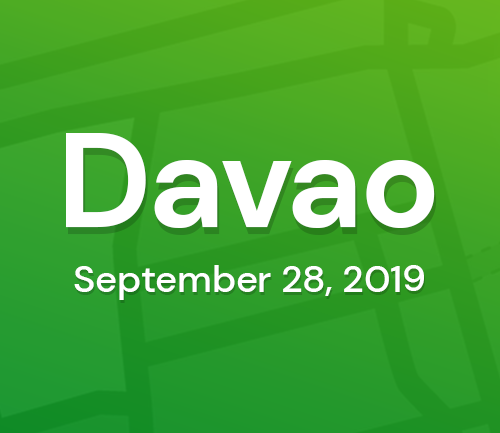
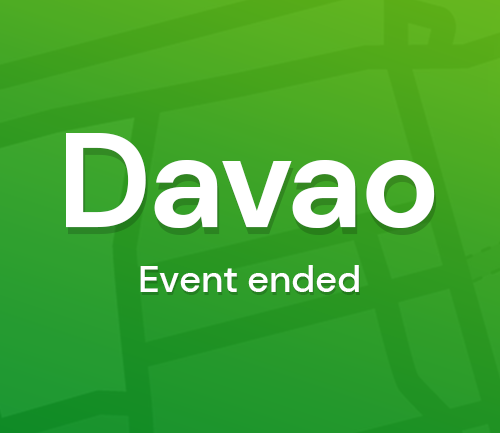
Davao end event updates

Changed region(s): [[0.15, 0.6005, 0.87, 0.6905]]

diff --git a/layouts/index.html b/layouts/index.html
@@ -34,15 +34,7 @@
 							</div>
 							-->
 							<div class="details">
-								<button class="first-button">
-									<a href="https://www.eventbrite.com/e/uxph-national-roadshow-2019-davao-tickets-69857328149" target="_blank">
-										Buy Tickets
-									</a>
-								</button>
-								
-								<button class="hollow second-button">
-									<a href="/davao/">See Event Details</a>
-								</button>
+								<button class="hollow"><a href="/davao">See Event Details</a></button>
 							</div>
 						</div>
 					</a>

diff --git a/layouts/partials/pages/davao.html b/layouts/partials/pages/davao.html
@@ -44,9 +44,6 @@
 				<br />
 				<i class="fa fa-map-marker-alt"></i>Finster Auditorium, Ateneo de Davao University
 			</p>
-			<a href="https://uxphroadshowdavao.eventbrite.com/" target="_blank">
-				<button>Buy Tickets</button>
-			</a>
 		</div>
 	</div>
 </section>
